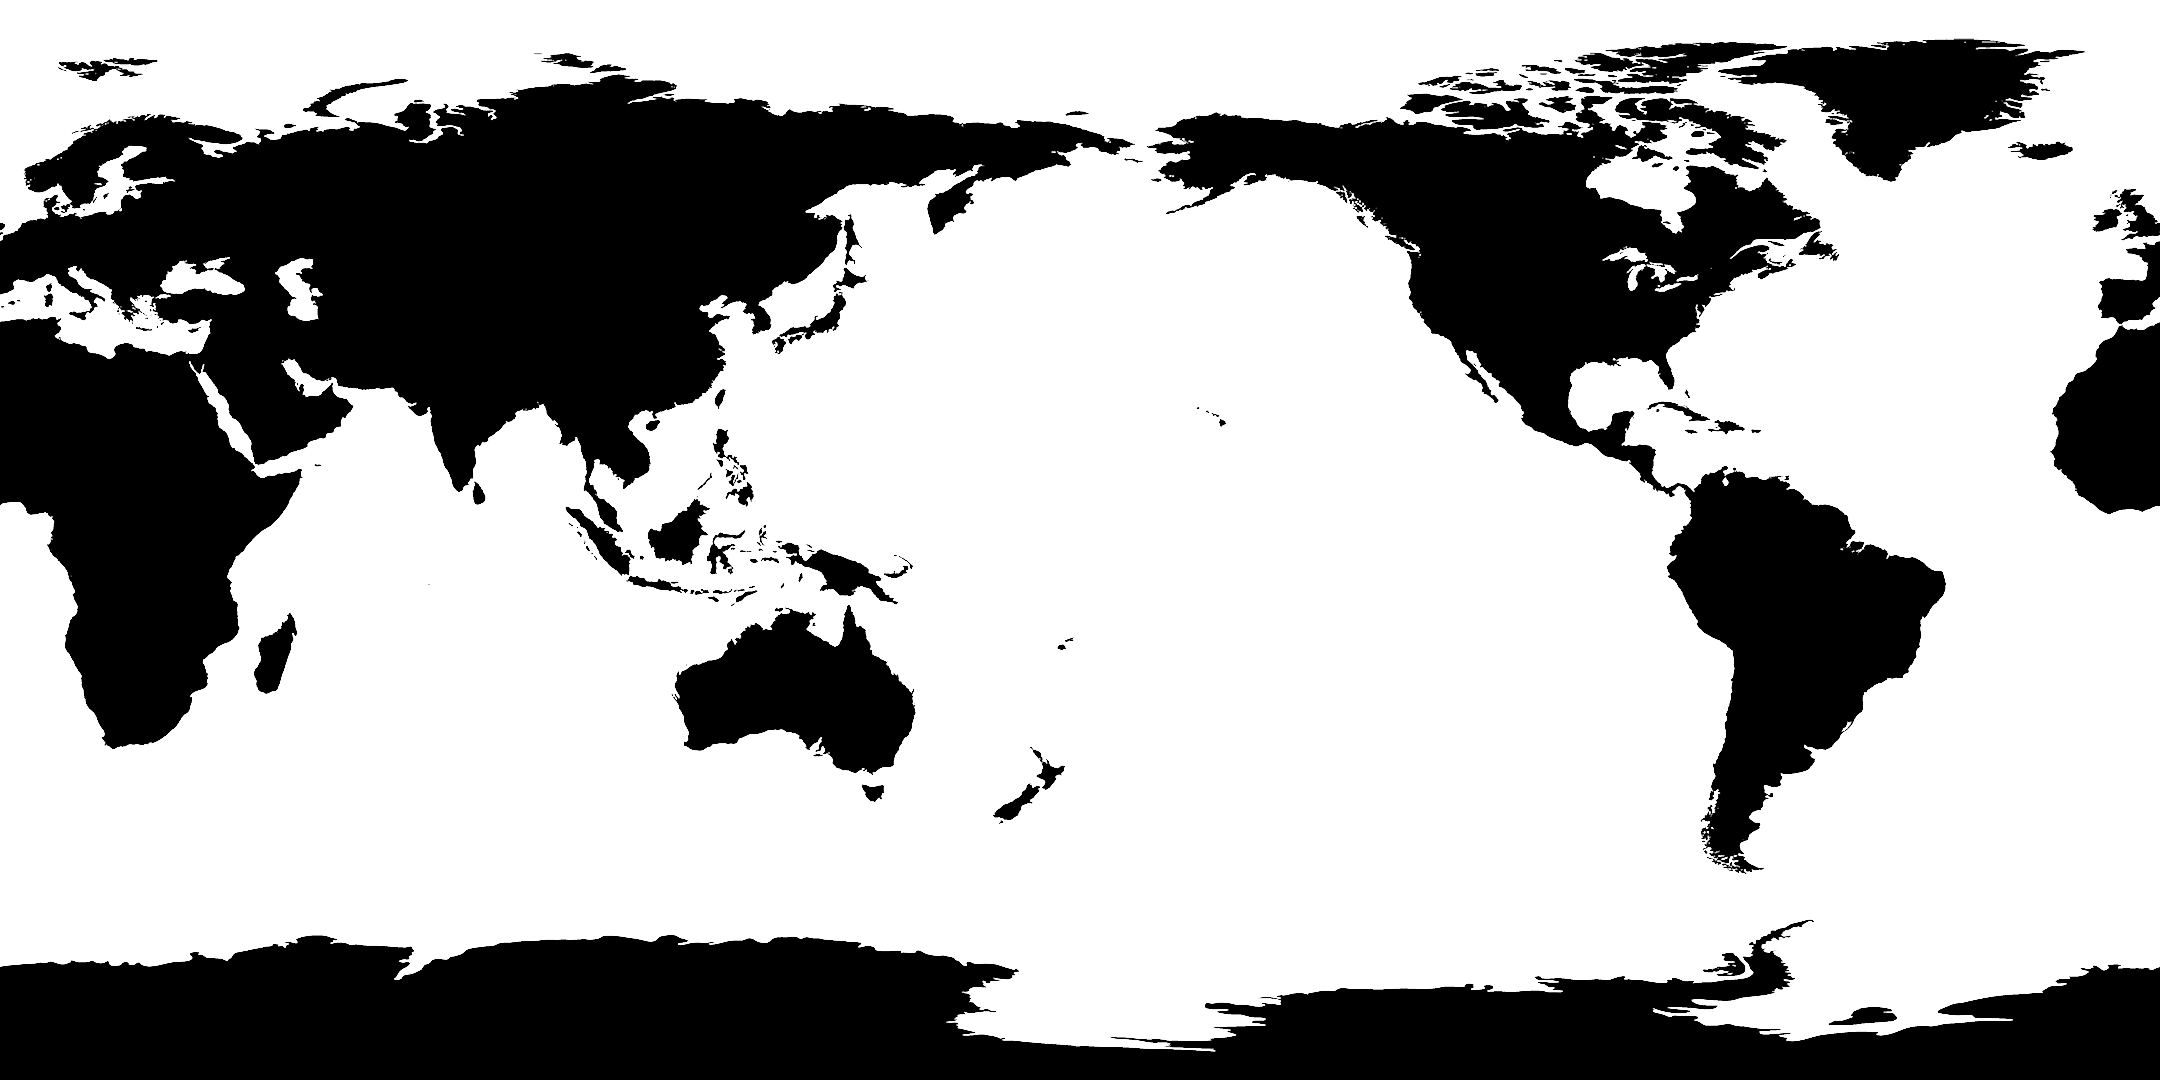
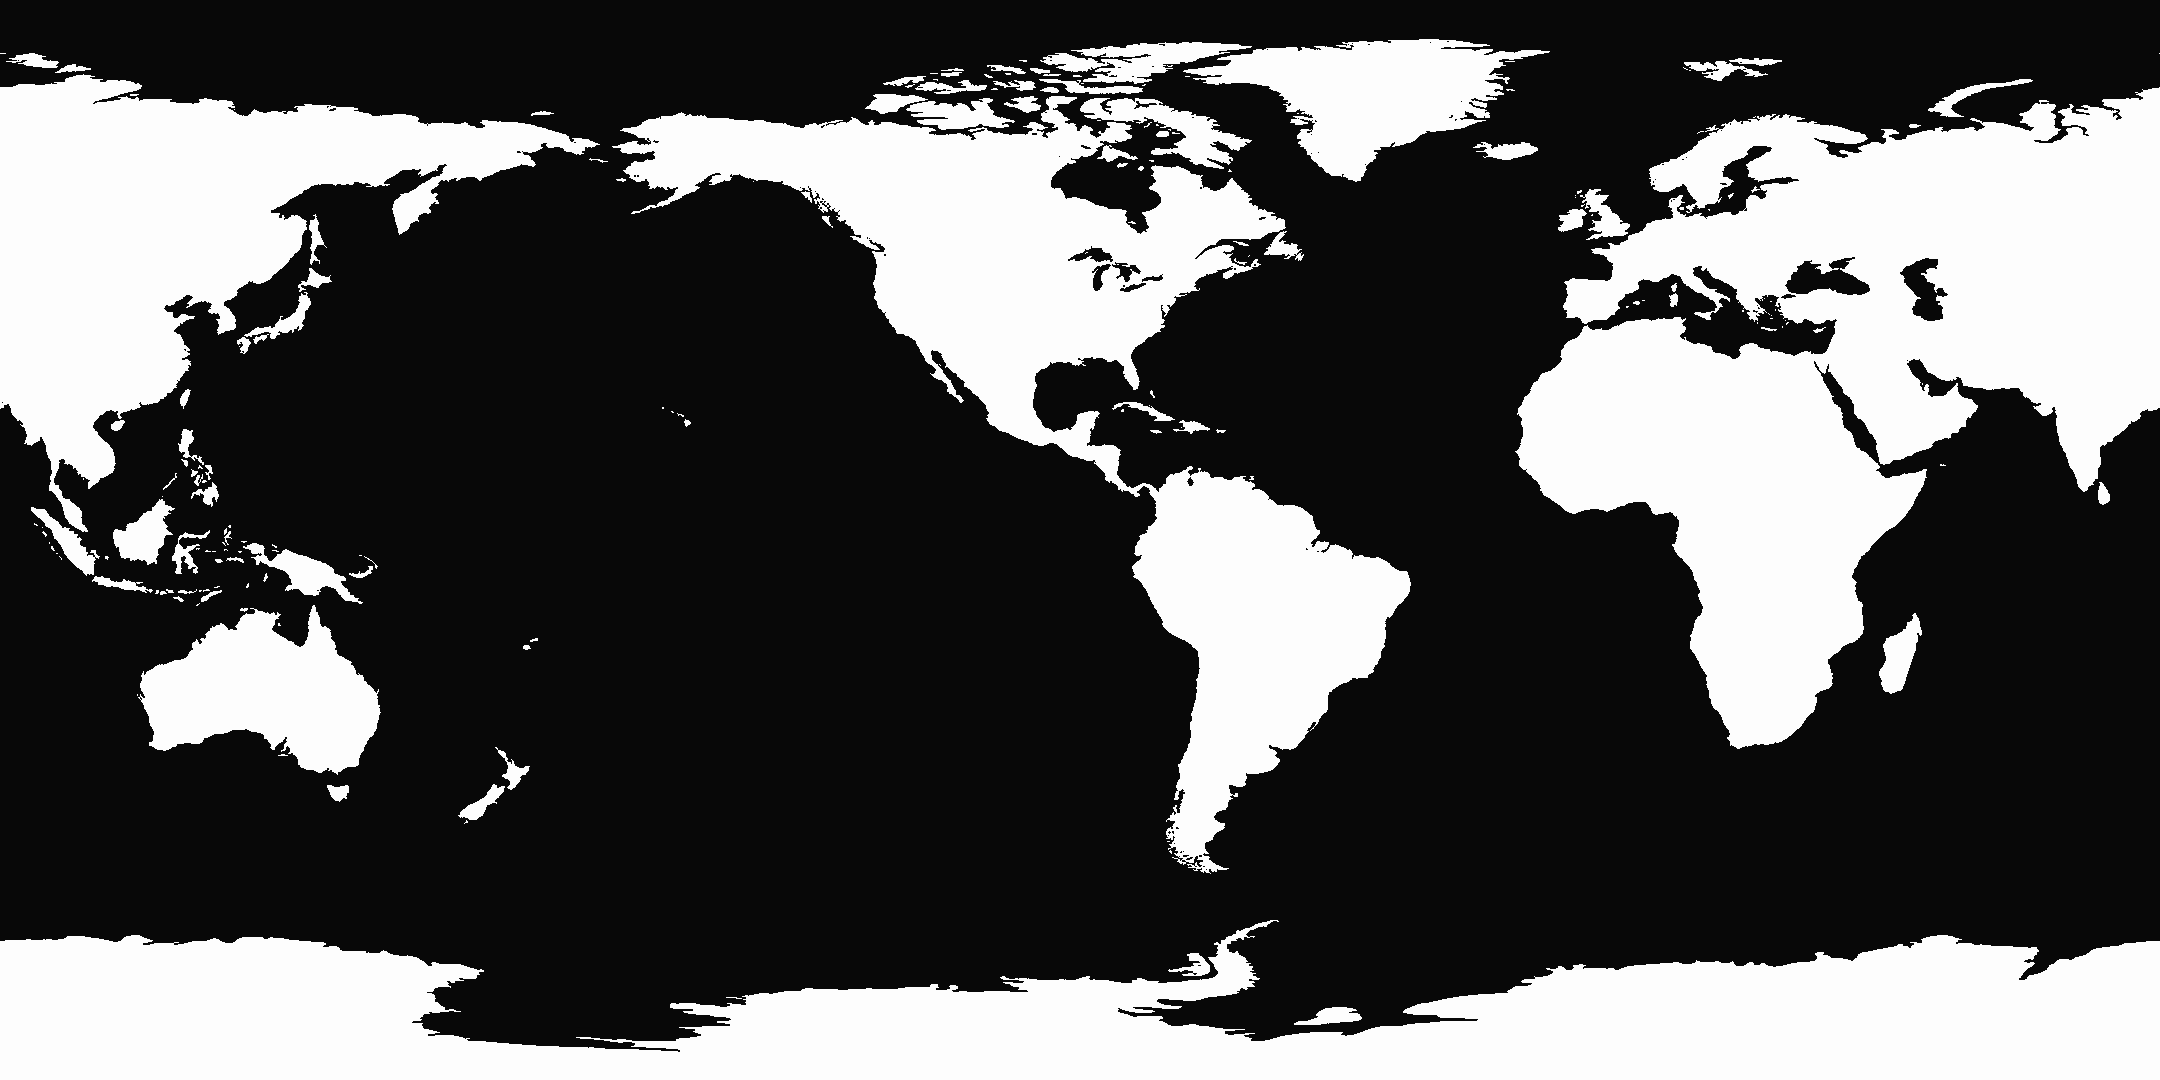
fix: map size, offset and geometry
The map texture is offset and aligned with the prime meridian to avoid
having to manually do so in code.

The image size has been reduced by 60% by not sampling the alpha, but rgb
channels instead.

The vertices for the spheres have been reduced from 4900 to 2880 by using an
icosahedron instead.

diff --git a/src/index.ts b/src/index.ts
@@ -72,7 +72,7 @@ class Globe {
       dotSphere: {
         numberOfDots: 60000,
         alphaMap:
-          'https://images.ctfassets.net/fzn2n1nzq965/11064gUb2CgTJXKVwAt5J9/297a98a65d04d4fbb979072ce60466ab/map_fill-a78643e8.png',
+          'https://i.imgur.com/7e2kNjf.png', 
         color: 0x3d689c,
         opacity: 0.8,
         transparent: true,
@@ -121,7 +121,7 @@ class Globe {
   };
 
   drawBaseSphere = () => {
-    const geometry = new THREE.SphereGeometry(this.globeConfig.radius, 50, 50);
+    const geometry = new THREE.IcosahedronGeometry(this.globeConfig.radius, 11);
     const material = new THREE.ShaderMaterial({
       uniforms: {
         color: {
@@ -138,7 +138,7 @@ class Globe {
   };
 
   drawAtmosphere = () => {
-    const atmosphereGeometry = new THREE.SphereGeometry(this.globeConfig.radius, 50, 50);
+    const atmosphereGeometry = new THREE.IcosahedronGeometry(this.globeConfig.radius, 11);
     const atmosphereMaterial = new THREE.ShaderMaterial({
       uniforms: {
         color: {
@@ -167,19 +167,12 @@ class Globe {
       fragmentShader: dotsFragmentShader,
       vertexShader: dotsVertexShader,
     });
-    // const material = new THREE.MeshBasicMaterial({
-    //   color: 0x2b5d96,
-    //   transparent: true,
-    //   opacity: 1.0,
-    // });
 
     const instancedMesh = new THREE.InstancedMesh(
       geometry,
       material,
       this.globeConfig.dotSphere.numberOfDots,
     );
-    // Offset to longitudally align with Prime Meridian
-    instancedMesh.rotation.y -= (Math.PI / 2) - 0.02;
 
     const color = new THREE.Color();
 
@@ -260,7 +253,7 @@ class Globe {
     const offset = (ty * this.imageData.width + tx) * 4;
 
     // Offset + 3 to get the alpha channel which we are interested in
-    return this.imageData!.data[offset + 3];
+    return this.imageData!.data[offset];
   };
 
   emod = (n: number, m: number): number => ((n % m) + m) % m;
